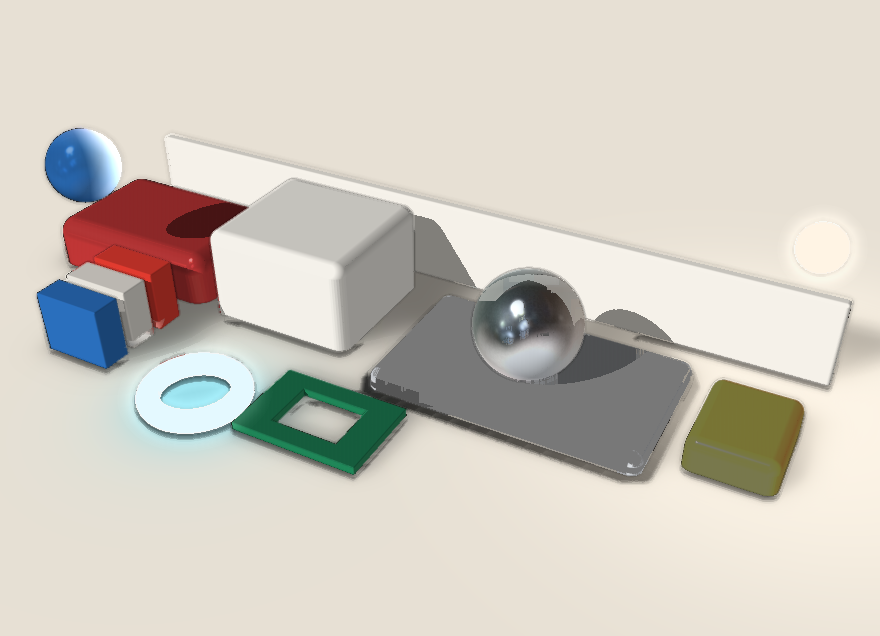
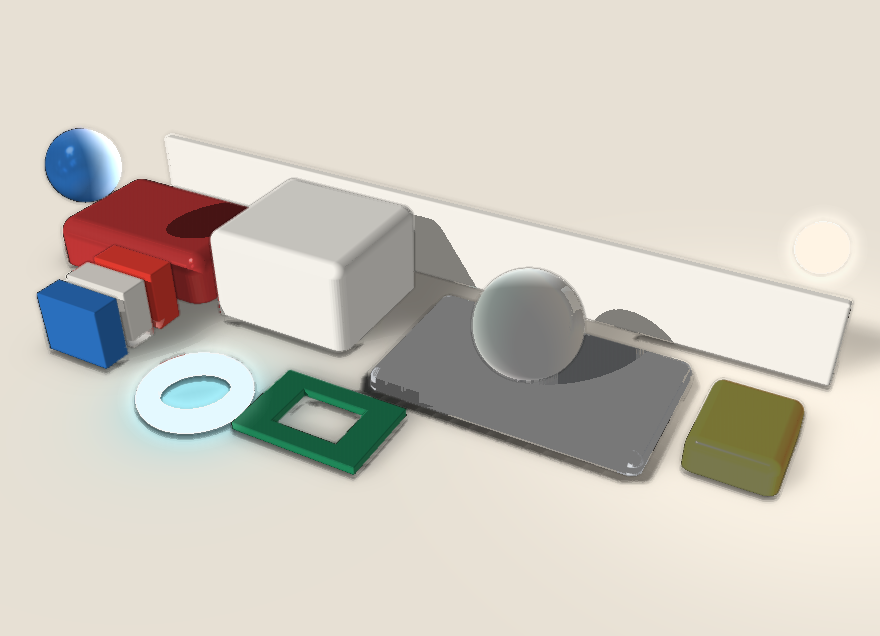
QUALITY-6 §9.2: plastic still chrome; cover mac AA chrome rim.
Dielectric chrome stops bar reflections read as glass. Brighter metal 0.8.
2D dark strip hides cream|chassis fringe dual-blind called chrome lip.

Changed region(s): [[0.5216, 0.4182, 0.675, 0.5975]]

diff --git a/scripts/gallery-3d.ts b/scripts/gallery-3d.ts
@@ -107,10 +107,11 @@ const FINISHES: Finish[] = [
     side: 'fill="#e4e9ee" material="metal 0.08"',
   },
   {
+    // Brighter box — dual-blind called metal 0.8 block near-black (§9.2).
     label: 'metal 0.8',
-    box: 'fill="#d8dde2" material="metal 0.8"',
-    sphere: 'fill="#eef2f6" material="metal 0.8"',
-    side: 'fill="#d8dde2" material="metal 0.8"',
+    box: 'fill="#e8edf2" material="metal 0.8"',
+    sphere: 'fill="#f2f5f8" material="metal 0.8"',
+    side: 'fill="#e8edf2" material="metal 0.8"',
   },
   {
     // Saturated gold mirror — stay distinct from cool metal 0.08 (§9.2).
@@ -340,9 +341,8 @@ function buildPlates(): { sheet: string; title: string; cols: number; cells: Pla
           )
           .replace(
             '<sphere id="chrome" cx="590" cy="140" r="48" z="61" fill="#d8dee4" material="metal 0.12" />',
-            // Dull the chrome — polished metal mirrored wall/stripe bars and
-            // dual-blind called them "glass vertical bars" (§9.2).
-            '<sphere id="chrome" cx="590" cy="140" r="48" z="61" fill="#c5ccd3" material="metal 0.45" />',
+            // Dielectric — even dull metal still mirrored bars as "glass" (§9.2).
+            '<sphere id="chrome" cx="590" cy="140" r="48" z="61" fill="#c5ccd3" material="plastic 0.55" />',
           )
           .replace(
             '<rect id="stripe-red" x="210" y="200" width="36" height="78" depth="160" fill="#e23b2f" />',

diff --git a/examples/macbook-pro.tsx b/examples/macbook-pro.tsx
@@ -217,6 +217,8 @@ export default (
       <Base />
       <ground y={STAGE.groundY} rotateX="90" fill="#efe8df" shadow-blur="140" shadow-opacity="0.08" />
     </layer>
+    {/* Cover cream|chassis AA fringe that dual-blind reads as a chrome lip (§9.2). */}
+    <rect x={STAGE.x - 2} y={720} width="14" height={STAGE.groundY - 700} rx="4" fill="#2a2d32" />
     <layer x="80" y="66">
       <p style="font-family:Inter; font-size:13px; font-weight:700; letter-spacing:6.2px; color:#c88255">PRO PERFORMANCE · M4 MAX</p>
     </layer>
